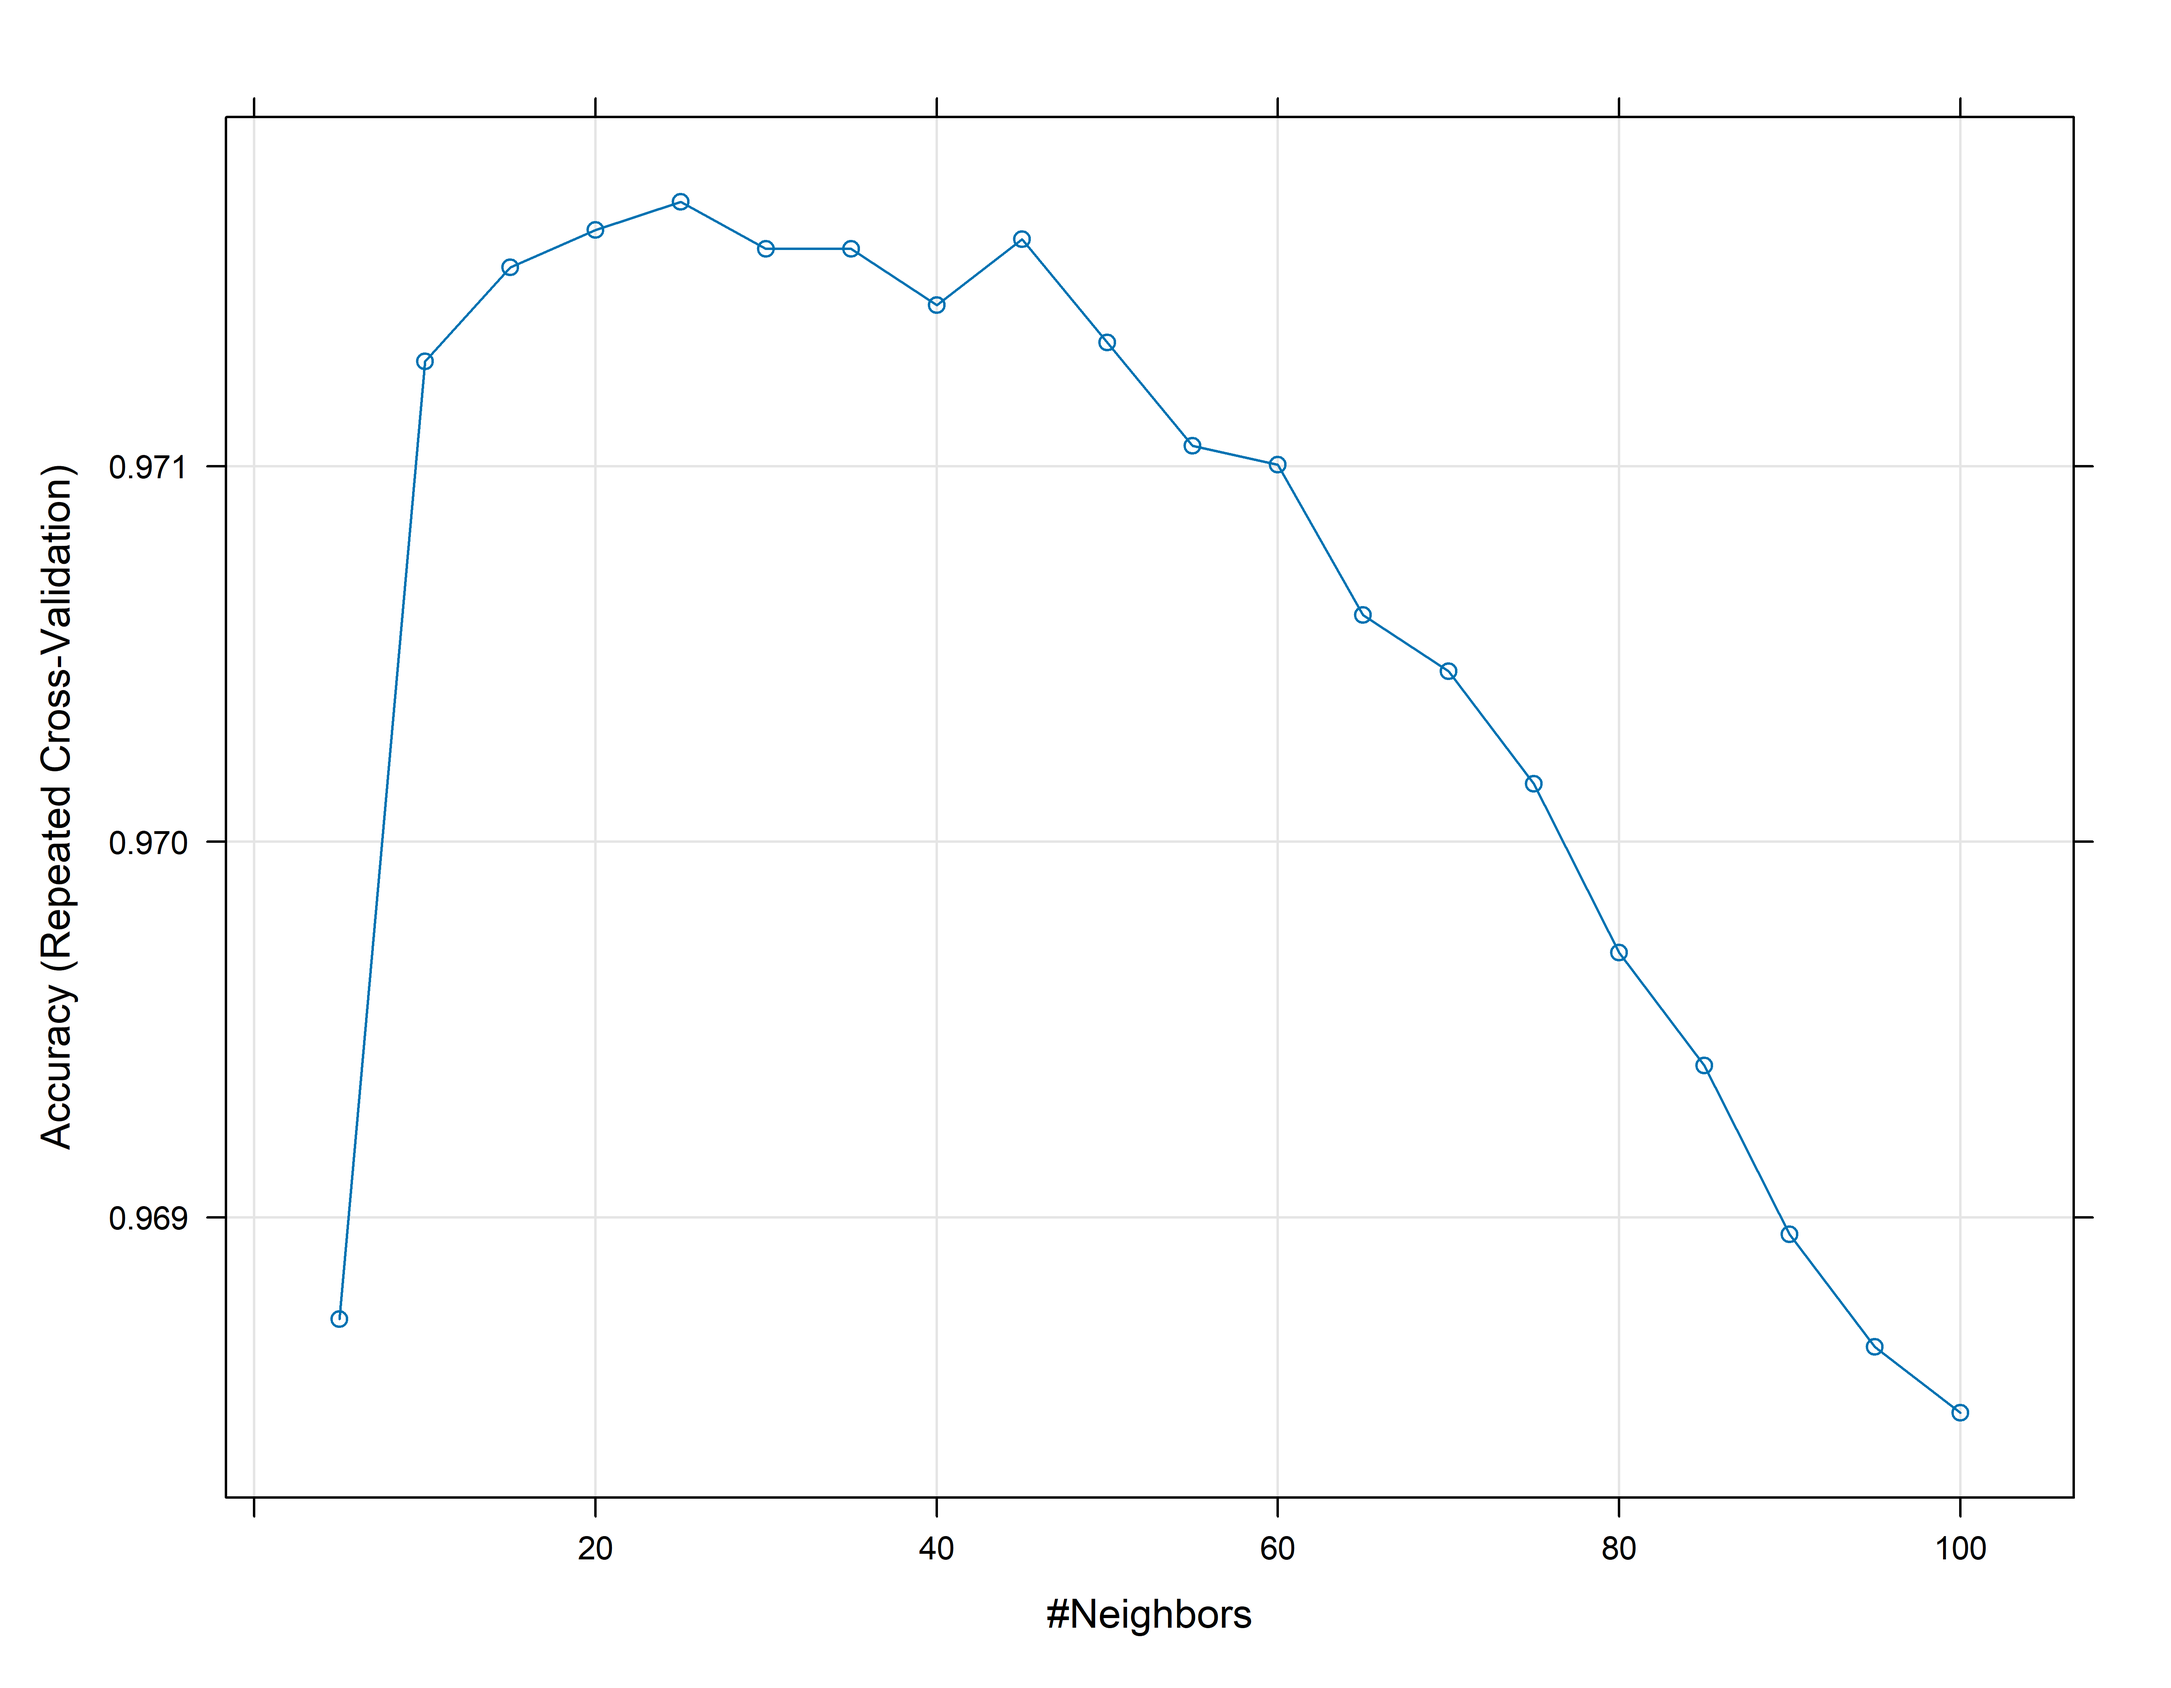
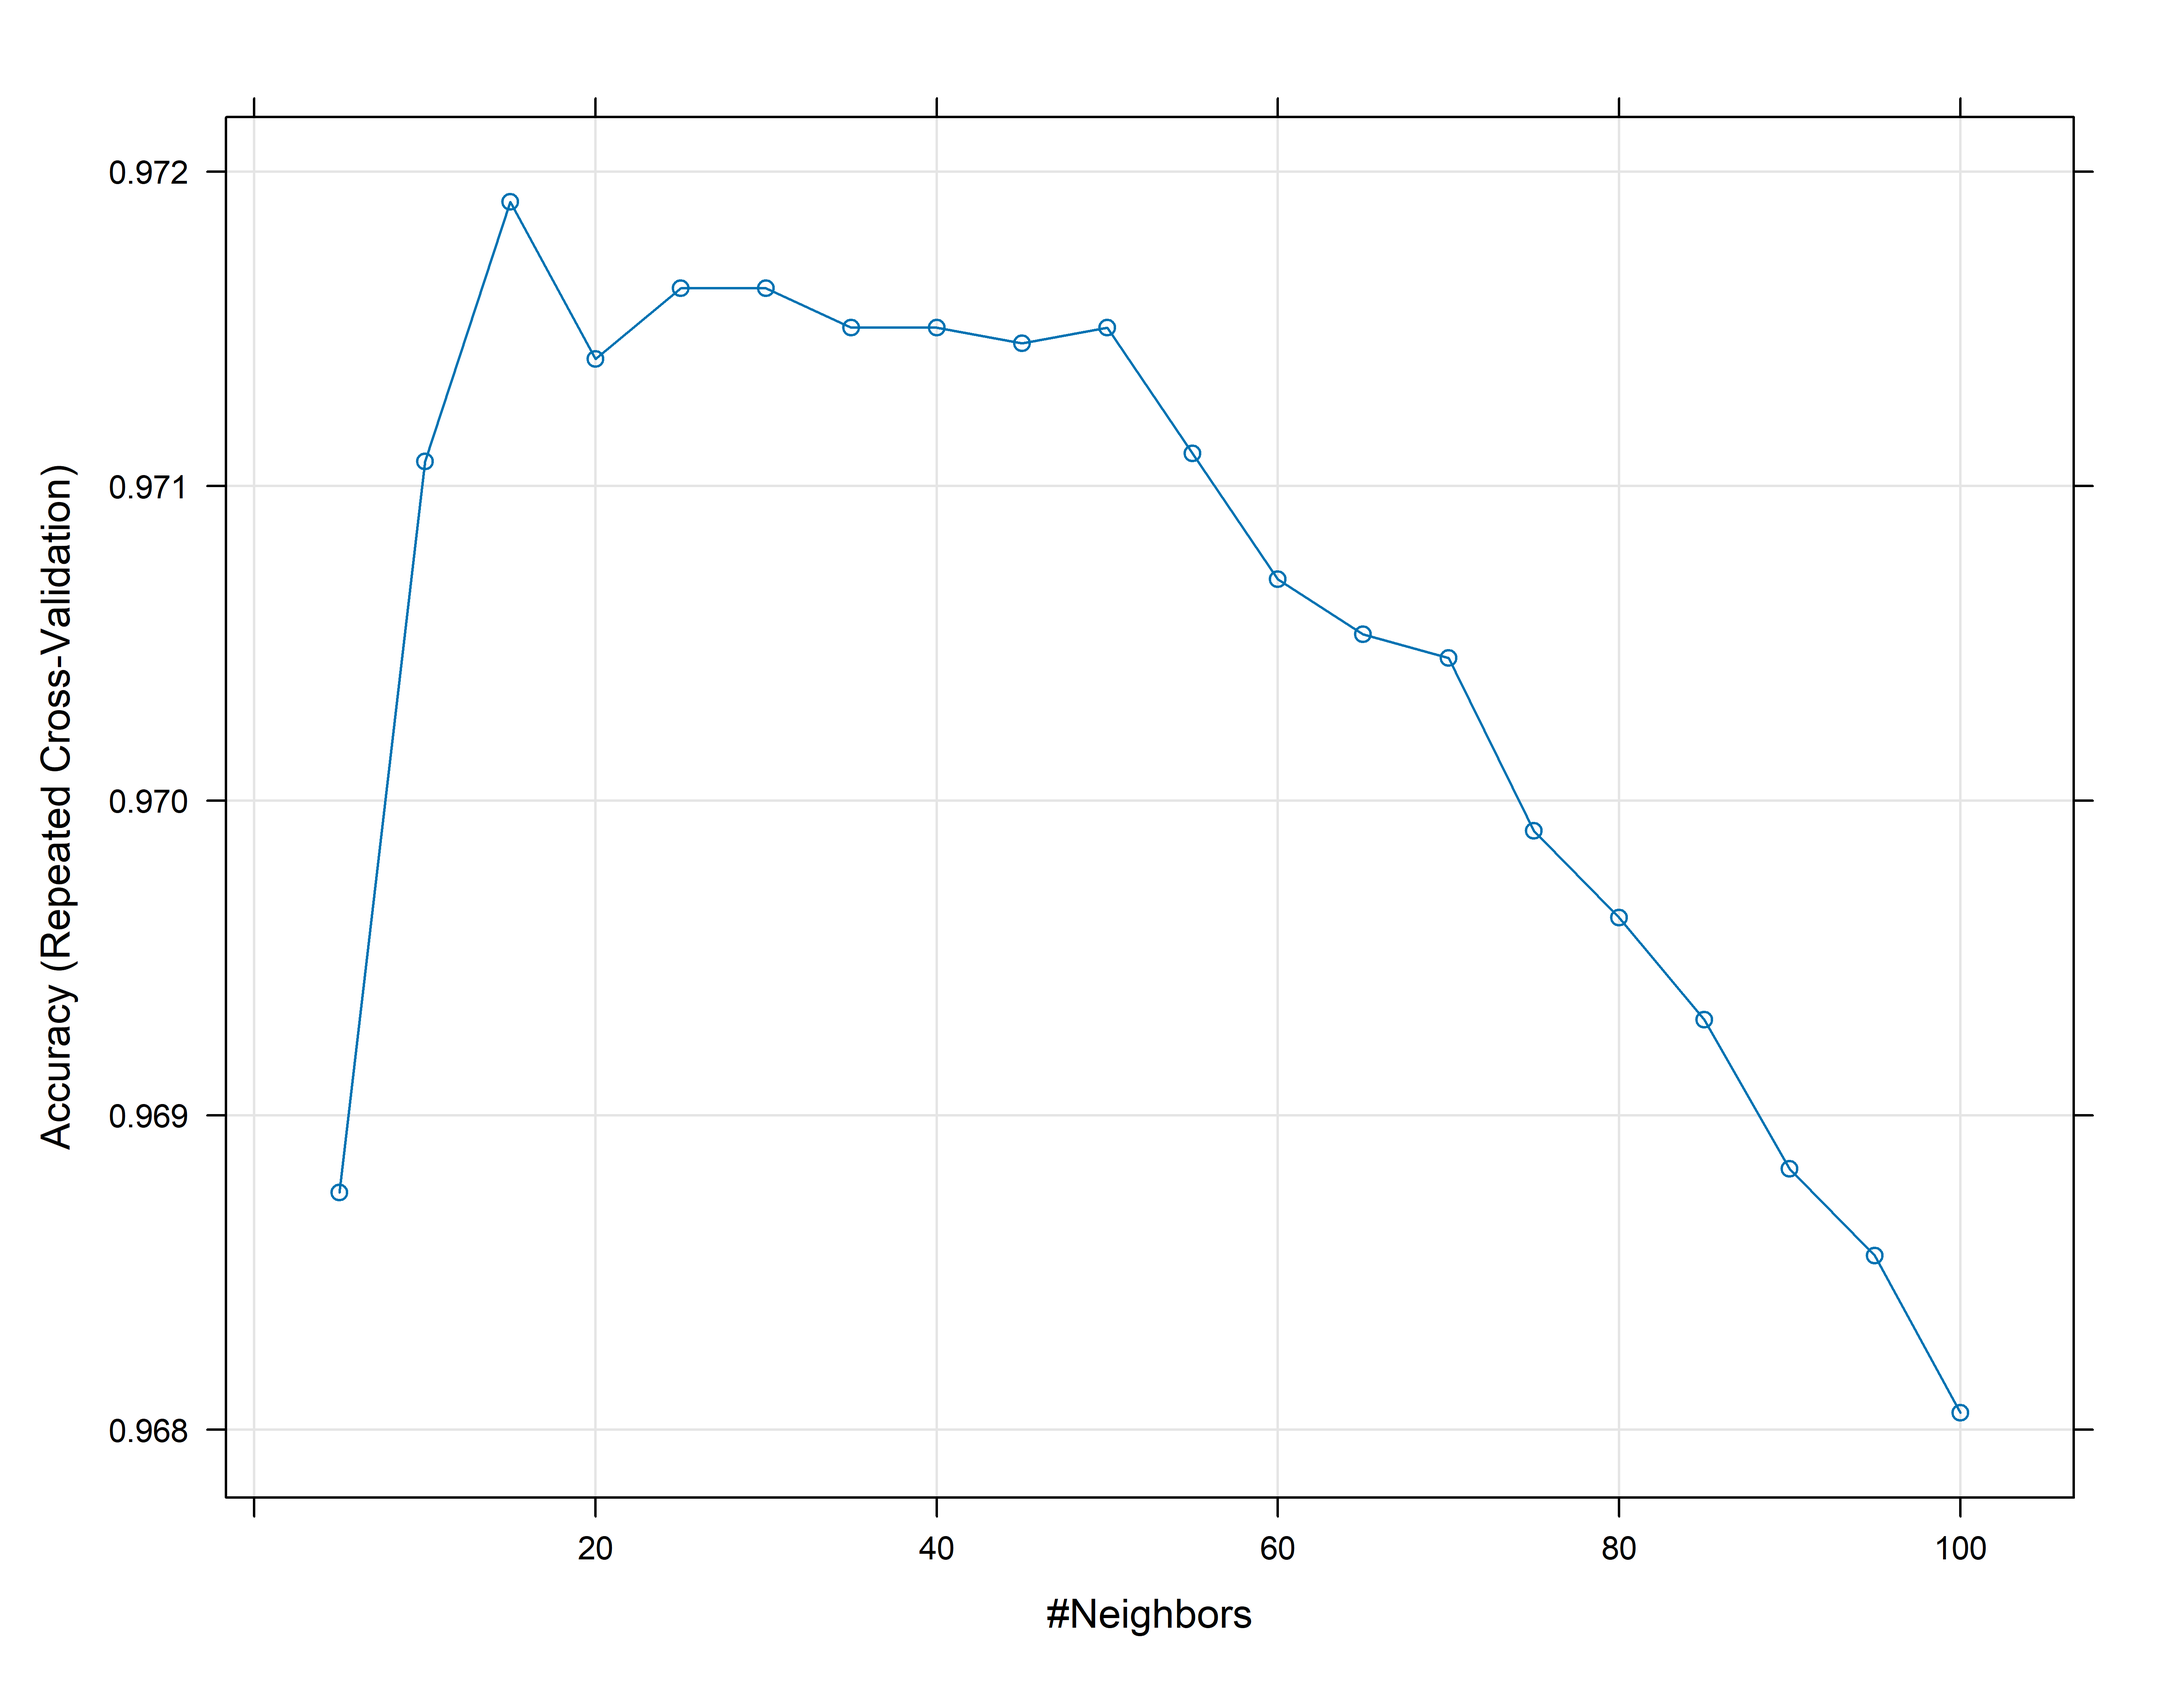
at18+

diff --git a/_site/semanas/Aula08.html b/_site/semanas/Aula08.html
@@ -390,7 +390,7 @@ pre > code.sourceCode > span > a:first-child::before { text-decoration: underlin
   <li><a href="#curva-roc" id="toc-curva-roc" class="nav-link" data-scroll-target="#curva-roc">Curva ROC</a></li>
   <li><a href="#area-embaixo-da-curva-roc" id="toc-area-embaixo-da-curva-roc" class="nav-link" data-scroll-target="#area-embaixo-da-curva-roc">Area embaixo da curva ROC</a></li>
   <li><a href="#variando-k" id="toc-variando-k" class="nav-link" data-scroll-target="#variando-k">Variando K</a></li>
-  <li><a href="#curva-roc-dos-2-melhores-modelos-k90-e-k25" id="toc-curva-roc-dos-2-melhores-modelos-k90-e-k25" class="nav-link" data-scroll-target="#curva-roc-dos-2-melhores-modelos-k90-e-k25">Curva ROC dos 2 melhores modelos k=90 e k=25</a></li>
+  <li><a href="#curva-roc-dos-2-melhores-modelos-k90-e-k15" id="toc-curva-roc-dos-2-melhores-modelos-k90-e-k15" class="nav-link" data-scroll-target="#curva-roc-dos-2-melhores-modelos-k90-e-k15">Curva ROC dos 2 melhores modelos k=90 e k=15</a></li>
   </ul></nav>
     </div>
 <!-- main -->
@@ -699,7 +699,7 @@ pre > code.sourceCode > span > a:first-child::before { text-decoration: underlin
 <p><strong>Anteriormente usamos k=90. Este parametro deve ser ajustado para melhoramos os modelo KNN. Para isto vamos usar a função train da biblioteca caret</strong></p>
 <p><strong>Observe que a otimização de k é feita através de acurácia.</strong></p>
 <div class="cell">
-<div class="sourceCode" id="cb32"><pre class="downlit sourceCode r code-with-copy"><code class="sourceCode R"><span><span class="fu"><a href="https://rdrr.io/r/base/Random.html">set.seed</a></span><span class="op">(</span><span class="fl">23</span><span class="op">)</span></span>
+<div class="sourceCode" id="cb32"><pre class="downlit sourceCode r code-with-copy"><code class="sourceCode R"><span><span class="fu"><a href="https://rdrr.io/r/base/Random.html">set.seed</a></span><span class="op">(</span><span class="fl">2024</span><span class="op">)</span></span>
 <span></span>
 <span><span class="co"># Usando validação cruzada para obter o valor de k através da função train da biblioteca caret e o controle do treino e fazendo um gride de valores para k.</span></span>
 <span><span class="va">ctrl</span> <span class="op">&lt;-</span> <span class="fu"><a href="https://rdrr.io/pkg/caret/man/trainControl.html">trainControl</a></span><span class="op">(</span>method <span class="op">=</span> <span class="st">"repeatedcv"</span>, </span>
@@ -722,33 +722,33 @@ pre > code.sourceCode > span > a:first-child::before { text-decoration: underlin
 #&gt; 
 #&gt; No pre-processing
 #&gt; Resampling: Cross-Validated (10 fold, repeated 5 times) 
-#&gt; Summary of sample sizes: 7201, 7202, 7202, 7200, 7201, 7201, ... 
+#&gt; Summary of sample sizes: 7200, 7202, 7200, 7202, 7201, 7200, ... 
 #&gt; Resampling results across tuning parameters:
 #&gt; 
 #&gt;   k    Accuracy   Kappa    
-#&gt;     5  0.9687288  0.3765173
-#&gt;    10  0.9712788  0.4168775
-#&gt;    15  0.9715291  0.3850309
-#&gt;    20  0.9716289  0.3721385
-#&gt;    25  0.9717038  0.3589464
-#&gt;    30  0.9715790  0.3548330
-#&gt;    35  0.9715790  0.3491665
-#&gt;    40  0.9714289  0.3406805
-#&gt;    45  0.9716040  0.3406811
-#&gt;    50  0.9713290  0.3246231
-#&gt;    55  0.9710542  0.3128433
-#&gt;    60  0.9710041  0.3001469
-#&gt;    65  0.9706041  0.2807185
-#&gt;    70  0.9704544  0.2692037
-#&gt;    75  0.9701544  0.2485740
-#&gt;    80  0.9697046  0.2246645
-#&gt;    85  0.9694044  0.2037268
-#&gt;    90  0.9689544  0.1678243
-#&gt;    95  0.9686547  0.1429906
-#&gt;   100  0.9684796  0.1203337
+#&gt;     5  0.9687539  0.3713723
+#&gt;    10  0.9710787  0.4074849
+#&gt;    15  0.9719035  0.3949430
+#&gt;    20  0.9714038  0.3650255
+#&gt;    25  0.9716285  0.3568810
+#&gt;    30  0.9716288  0.3532068
+#&gt;    35  0.9715038  0.3445969
+#&gt;    40  0.9715037  0.3418931
+#&gt;    45  0.9714537  0.3369602
+#&gt;    50  0.9715037  0.3314707
+#&gt;    55  0.9711037  0.3129172
+#&gt;    60  0.9707038  0.2893980
+#&gt;    65  0.9705289  0.2761428
+#&gt;    70  0.9704536  0.2663185
+#&gt;    75  0.9699037  0.2364880
+#&gt;    80  0.9696287  0.2176720
+#&gt;    85  0.9693037  0.1946375
+#&gt;    90  0.9688291  0.1614589
+#&gt;    95  0.9685543  0.1362015
+#&gt;   100  0.9680543  0.1070964
 #&gt; 
 #&gt; Accuracy was used to select the optimal model using the largest value.
-#&gt; The final value used for the model was k = 25.</code></pre>
+#&gt; The final value used for the model was k = 15.</code></pre>
 </div>
 <div class="sourceCode" id="cb34"><pre class="downlit sourceCode r code-with-copy"><code class="sourceCode R"><span><span class="fu"><a href="https://rdrr.io/r/graphics/plot.default.html">plot</a></span><span class="op">(</span><span class="va">t_knn2</span><span class="op">)</span></span></code><button title="Copy to Clipboard" class="code-copy-button"><i class="bi"></i></button></pre></div>
 <div class="cell-output-display">
@@ -765,32 +765,32 @@ pre > code.sourceCode > span > a:first-child::before { text-decoration: underlin
 #&gt; 
 #&gt;           Reference
 #&gt; Prediction  Nao  Sim
-#&gt;        Nao 1928   43
-#&gt;        Sim    5   23
+#&gt;        Nao 1924   41
+#&gt;        Sim    9   25
 #&gt;                                           
-#&gt;                Accuracy : 0.976           
-#&gt;                  95% CI : (0.9683, 0.9822)
+#&gt;                Accuracy : 0.975           
+#&gt;                  95% CI : (0.9672, 0.9814)
 #&gt;     No Information Rate : 0.967           
-#&gt;     P-Value [Acc &gt; NIR] : 0.01143         
+#&gt;     P-Value [Acc &gt; NIR] : 0.02267         
 #&gt;                                           
-#&gt;                   Kappa : 0.4791          
+#&gt;                   Kappa : 0.4885          
 #&gt;                                           
-#&gt;  Mcnemar's Test P-Value : 9.27e-08        
+#&gt;  Mcnemar's Test P-Value : 1.165e-05       
 #&gt;                                           
-#&gt;             Sensitivity : 0.34848         
-#&gt;             Specificity : 0.99741         
-#&gt;          Pos Pred Value : 0.82143         
-#&gt;          Neg Pred Value : 0.97818         
+#&gt;             Sensitivity : 0.37879         
+#&gt;             Specificity : 0.99534         
+#&gt;          Pos Pred Value : 0.73529         
+#&gt;          Neg Pred Value : 0.97913         
 #&gt;              Prevalence : 0.03302         
-#&gt;          Detection Rate : 0.01151         
-#&gt;    Detection Prevalence : 0.01401         
-#&gt;       Balanced Accuracy : 0.67295         
+#&gt;          Detection Rate : 0.01251         
+#&gt;    Detection Prevalence : 0.01701         
+#&gt;       Balanced Accuracy : 0.68707         
 #&gt;                                           
 #&gt;        'Positive' Class : Sim             
 #&gt; </code></pre>
 </div>
 </div>
-</section><section id="curva-roc-dos-2-melhores-modelos-k90-e-k25" class="level2"><h2 class="anchored" data-anchor-id="curva-roc-dos-2-melhores-modelos-k90-e-k25">Curva ROC dos 2 melhores modelos k=90 e k=25</h2>
+</section><section id="curva-roc-dos-2-melhores-modelos-k90-e-k15" class="level2"><h2 class="anchored" data-anchor-id="curva-roc-dos-2-melhores-modelos-k90-e-k15">Curva ROC dos 2 melhores modelos k=90 e k=15</h2>
 <div class="cell">
 <div class="sourceCode" id="cb37"><pre class="downlit sourceCode r code-with-copy"><code class="sourceCode R"><span><span class="va">prev_knn1</span> <span class="op">&lt;-</span> <span class="fu"><a href="https://rdrr.io/r/stats/predict.html">predict</a></span><span class="op">(</span><span class="va">t_knn1</span>, <span class="va">conj_teste</span>, type <span class="op">=</span> <span class="st">"prob"</span><span class="op">)</span></span>
 <span><span class="va">prev_knn2</span> <span class="op">&lt;-</span> <span class="fu"><a href="https://rdrr.io/r/stats/predict.html">predict</a></span><span class="op">(</span><span class="va">t_knn2</span>, <span class="va">conj_teste</span>, type <span class="op">=</span> <span class="st">"prob"</span><span class="op">)</span></span>
@@ -821,11 +821,10 @@ pre > code.sourceCode > span > a:first-child::before { text-decoration: underlin
 </div>
 <div class="sourceCode" id="cb45"><pre class="downlit sourceCode r code-with-copy"><code class="sourceCode R"><span><span class="fu"><a href="https://rdrr.io/r/base/numeric.html">as.numeric</a></span><span class="op">(</span><span class="va">roc_knn2</span><span class="op">$</span><span class="va">auc</span><span class="op">)</span></span></code><button title="Copy to Clipboard" class="code-copy-button"><i class="bi"></i></button></pre></div>
 <div class="cell-output cell-output-stdout">
-<pre><code>#&gt; [1] 0.9220281</code></pre>
+<pre><code>#&gt; [1] 0.8927715</code></pre>
 </div>
 </div>
 <p><strong>Observe que os resultados de área abaixo da ROC não são suficientes para a escolha do k, pois precisamos estar atentos a sensibilidade e especificidade!</strong></p>
-<p><strong>Os resultados encontrados apontam k=25 como a melhor opção</strong></p>
 
 
 </section></main><!-- /main --><script id="quarto-html-after-body" type="application/javascript">
